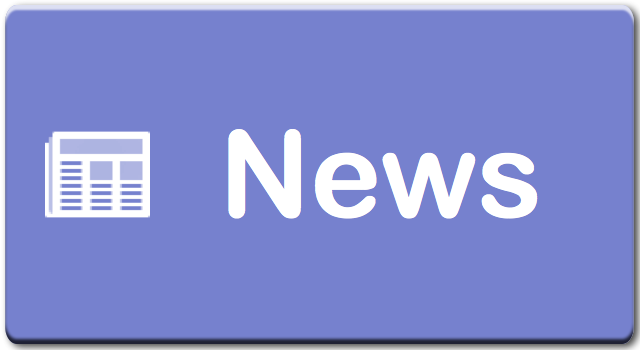
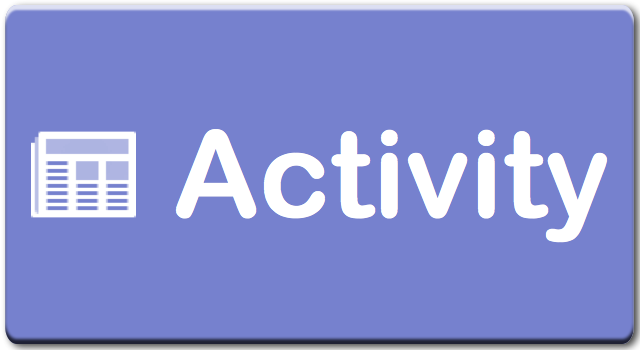
Test #273 - News becomes Activity

Changed region(s): [[0.0312, 0.3714, 0.9688, 0.7143], [0.5938, 0.3714, 0.625, 0.4286]]

diff --git a/iOS/BottomToolbar.cs b/iOS/BottomToolbar.cs
@@ -167,7 +167,7 @@ namespace RayvMobileApp.iOS
 			gridMain.Children.Add (new ToolbarButton ("Find") { 
 				OnClick = ShowList,
 			}, 1, 2, 1, 2);
-			gridMain.Children.Add (new ToolbarButton ("News") { 
+			gridMain.Children.Add (new ToolbarButton ("Activity") { 
 				OnClick = ShowNews,
 			}, 3, 4, 1, 2);
 			ButtonWide AddBtn = new ToolbarButton ("Add") { 

diff --git a/iOS/NewsPage.cs b/iOS/NewsPage.cs
@@ -36,7 +36,7 @@ namespace RayvMobileApp.iOS
 
 		public NewsPage ()
 		{
-			Title = "News";
+			Title = "Activity";
 			Insights.Track ("News Page");
 			list = new ListView () {
 				RowHeight = ROW_HEIGHT,
